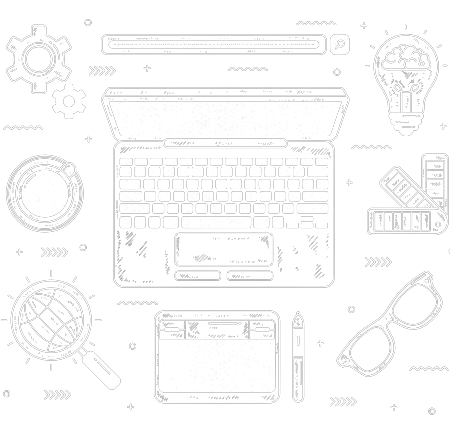
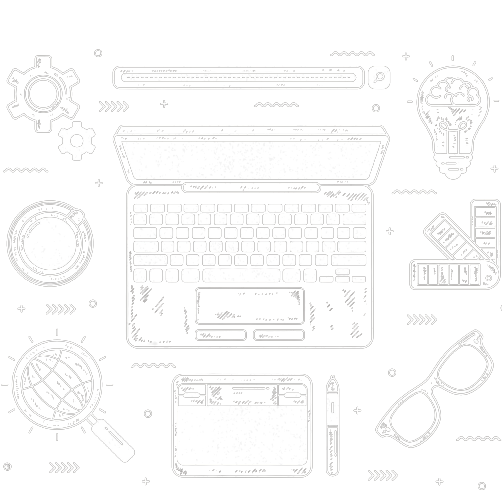
Changed background color

diff --git a/src/scenes/Landing.jsx b/src/scenes/Landing.jsx
@@ -4,8 +4,8 @@ import img1 from "./../assets/images/laptop.png";
 export default function Landing() {
   return (
     <section id="home">
-      <div class="grid w-4/5 py-8 mx-auto lg:gap-8 sm:gap-4 lg:py-20 sm:grid-cols-2 lg:grid-cols-12 mb-7">
-        <div class="mr-auto place-self-center lg:col-span-7">
+      <div class="grid md:w-4/5 sm:w-2/3 py-8 mx-auto lg:gap-8 sm:gap-4 lg:py-20 md:grid-cols-2 lg:grid-cols-12 mb-7">
+        <div class="mr-auto md:text-start lg:text-start lg:col-span-7">
           <motion.div
             initial="hidden"
             whileInView="visible"
@@ -16,133 +16,135 @@ export default function Landing() {
               visible: { opacity: 1, x: 0 },
             }}
           >
-            <h1 class="max-w-2xl mb-4 text-4xl font-teko font-extrabold tracking-tight leading-none md:text-6xl xl:text-7xl text-white">
+            <h1 class="max-w-2xl xxs:mt-3 xs:mt-8 xxs:text-5xl xs:text-5xl mb-4 text-4xl font-teko font-extrabold tracking-tight leading-none md:text-6xl xl:text-7xl text-white">
               I am ANDREA S. <span className="text-blue-300">PENSIERI.</span>
             </h1>
-            <p class="max-w-2xl mb-6 font-light font-sans lg:mb-6 md:text-lg lg:text-3xl text-gray-400">
+            <p class="max-w-2xl mb-6 font-light xs:text-3xl font-sans lg:mb-6 xxs:text-2xl md:text-lg lg:text-3xl text-gray-400">
               A Front End Developer based in Italy. I can code, design and
               prototype beautiful and responsive web applications!
             </p>
-            <a href="https://www.facebook.com/andrew.onais.9/?paipv=0&eav=Afa5uhlGs_onh2HMqBdvsaEiFm8mMpnhcXeALi7FbXXEzvqkhVzfxGC_-cvJZ5TcBPM&_rdr">
-              <svg
-                className="inline-flex mr-3 items-start justify-start"
-                xmlns="http://www.w3.org/2000/svg"
-                viewBox="0,0,256,256"
-                width="30px"
-                height="30px"
-                fill-rule="nonzero"
-              >
-                <g
-                  fill="#ffffff"
+            <div className="">
+              <a href="https://www.facebook.com/andrew.onais.9/?paipv=0&eav=Afa5uhlGs_onh2HMqBdvsaEiFm8mMpnhcXeALi7FbXXEzvqkhVzfxGC_-cvJZ5TcBPM&_rdr">
+                <svg
+                  className="inline-flex mr-3 items-start justify-start"
+                  xmlns="http://www.w3.org/2000/svg"
+                  viewBox="0,0,256,256"
+                  width="30px"
+                  height="30px"
                   fill-rule="nonzero"
-                  stroke="none"
-                  stroke-width="1"
-                  stroke-linecap="butt"
-                  stroke-linejoin="miter"
-                  stroke-miterlimit="10"
-                  stroke-dasharray=""
-                  stroke-dashoffset="0"
-                  font-family="none"
-                  font-weight="none"
-                  font-size="none"
-                  text-anchor="none"
                 >
-                  <g transform="scale(5.12,5.12)">
-                    <path d="M25,3c-12.15,0 -22,9.85 -22,22c0,11.03 8.125,20.137 18.712,21.728v-15.897h-5.443v-5.783h5.443v-3.848c0,-6.371 3.104,-9.168 8.399,-9.168c2.536,0 3.877,0.188 4.512,0.274v5.048h-3.612c-2.248,0 -3.033,2.131 -3.033,4.533v3.161h6.588l-0.894,5.783h-5.694v15.944c10.738,-1.457 19.022,-10.638 19.022,-21.775c0,-12.15 -9.85,-22 -22,-22z"></path>
+                  <g
+                    fill="#ffffff"
+                    fill-rule="nonzero"
+                    stroke="none"
+                    stroke-width="1"
+                    stroke-linecap="butt"
+                    stroke-linejoin="miter"
+                    stroke-miterlimit="10"
+                    stroke-dasharray=""
+                    stroke-dashoffset="0"
+                    font-family="none"
+                    font-weight="none"
+                    font-size="none"
+                    text-anchor="none"
+                  >
+                    <g transform="scale(5.12,5.12)">
+                      <path d="M25,3c-12.15,0 -22,9.85 -22,22c0,11.03 8.125,20.137 18.712,21.728v-15.897h-5.443v-5.783h5.443v-3.848c0,-6.371 3.104,-9.168 8.399,-9.168c2.536,0 3.877,0.188 4.512,0.274v5.048h-3.612c-2.248,0 -3.033,2.131 -3.033,4.533v3.161h6.588l-0.894,5.783h-5.694v15.944c10.738,-1.457 19.022,-10.638 19.022,-21.775c0,-12.15 -9.85,-22 -22,-22z"></path>
+                    </g>
                   </g>
-                </g>
-              </svg>
-            </a>
-            <a href="https://www.instagram.com/andy_s.thought/">
-              <svg
-                className="inline-flex mr-3 items-start justify-start"
-                xmlns="http://www.w3.org/2000/svg"
-                viewBox="0,0,256,256"
-                width="30px"
-                height="30px"
-                fill-rule="nonzero"
-              >
-                <g
-                  fill="#ffffff"
+                </svg>
+              </a>
+              <a href="https://www.instagram.com/andy_s.thought/">
+                <svg
+                  className="inline-flex mr-3 items-start justify-start"
+                  xmlns="http://www.w3.org/2000/svg"
+                  viewBox="0,0,256,256"
+                  width="30px"
+                  height="30px"
                   fill-rule="nonzero"
-                  stroke="none"
-                  stroke-width="1"
-                  stroke-linecap="butt"
-                  stroke-linejoin="miter"
-                  stroke-miterlimit="10"
-                  stroke-dasharray=""
-                  stroke-dashoffset="0"
-                  font-family="none"
-                  font-weight="none"
-                  font-size="none"
-                  text-anchor="none"
                 >
-                  <g transform="scale(5.12,5.12)">
-                    <path d="M16,3c-7.17,0 -13,5.83 -13,13v18c0,7.17 5.83,13 13,13h18c7.17,0 13,-5.83 13,-13v-18c0,-7.17 -5.83,-13 -13,-13zM37,11c1.1,0 2,0.9 2,2c0,1.1 -0.9,2 -2,2c-1.1,0 -2,-0.9 -2,-2c0,-1.1 0.9,-2 2,-2zM25,14c6.07,0 11,4.93 11,11c0,6.07 -4.93,11 -11,11c-6.07,0 -11,-4.93 -11,-11c0,-6.07 4.93,-11 11,-11zM25,16c-4.96,0 -9,4.04 -9,9c0,4.96 4.04,9 9,9c4.96,0 9,-4.04 9,-9c0,-4.96 -4.04,-9 -9,-9z"></path>
+                  <g
+                    fill="#ffffff"
+                    fill-rule="nonzero"
+                    stroke="none"
+                    stroke-width="1"
+                    stroke-linecap="butt"
+                    stroke-linejoin="miter"
+                    stroke-miterlimit="10"
+                    stroke-dasharray=""
+                    stroke-dashoffset="0"
+                    font-family="none"
+                    font-weight="none"
+                    font-size="none"
+                    text-anchor="none"
+                  >
+                    <g transform="scale(5.12,5.12)">
+                      <path d="M16,3c-7.17,0 -13,5.83 -13,13v18c0,7.17 5.83,13 13,13h18c7.17,0 13,-5.83 13,-13v-18c0,-7.17 -5.83,-13 -13,-13zM37,11c1.1,0 2,0.9 2,2c0,1.1 -0.9,2 -2,2c-1.1,0 -2,-0.9 -2,-2c0,-1.1 0.9,-2 2,-2zM25,14c6.07,0 11,4.93 11,11c0,6.07 -4.93,11 -11,11c-6.07,0 -11,-4.93 -11,-11c0,-6.07 4.93,-11 11,-11zM25,16c-4.96,0 -9,4.04 -9,9c0,4.96 4.04,9 9,9c4.96,0 9,-4.04 9,-9c0,-4.96 -4.04,-9 -9,-9z"></path>
+                    </g>
                   </g>
-                </g>
-              </svg>
-            </a>
-            <a href="https://github.com/andreasiano?tab=repositories">
-              <svg
-                className="inline-flex mr-3 items-start justify-start"
-                viewBox="0,0,256,256"
-                width="30px"
-                height="30px"
-                fill-rule="nonzero"
-              >
-                <g
-                  fill="#ffffff"
+                </svg>
+              </a>
+              <a href="https://github.com/andreasiano?tab=repositories">
+                <svg
+                  className="inline-flex mr-3 items-start justify-start"
+                  viewBox="0,0,256,256"
+                  width="30px"
+                  height="30px"
                   fill-rule="nonzero"
-                  stroke="none"
-                  stroke-width="1"
-                  stroke-linecap="butt"
-                  stroke-linejoin="miter"
-                  stroke-miterlimit="10"
-                  stroke-dasharray=""
-                  stroke-dashoffset="0"
-                  font-family="none"
-                  font-weight="none"
-                  font-size="none"
-                  text-anchor="none"
                 >
-                  <g transform="scale(5.12,5.12)">
-                    <path d="M17.791,46.836c0.711,-0.306 1.209,-1.013 1.209,-1.836v-5.4c0,-0.197 0.016,-0.402 0.041,-0.61c-0.014,0.004 -0.027,0.007 -0.041,0.01c0,0 -3,0 -3.6,0c-1.5,0 -2.8,-0.6 -3.4,-1.8c-0.7,-1.3 -1,-3.5 -2.8,-4.7c-0.3,-0.2 -0.1,-0.5 0.5,-0.5c0.6,0.1 1.9,0.9 2.7,2c0.9,1.1 1.8,2 3.4,2c2.487,0 3.82,-0.125 4.622,-0.555c0.934,-1.389 2.227,-2.445 3.578,-2.445v-0.025c-5.668,-0.182 -9.289,-2.066 -10.975,-4.975c-3.665,0.042 -6.856,0.405 -8.677,0.707c-0.058,-0.327 -0.108,-0.656 -0.151,-0.987c1.797,-0.296 4.843,-0.647 8.345,-0.714c-0.112,-0.276 -0.209,-0.559 -0.291,-0.849c-3.511,-0.178 -6.541,-0.039 -8.187,0.097c-0.02,-0.332 -0.047,-0.663 -0.051,-0.999c1.649,-0.135 4.597,-0.27 8.018,-0.111c-0.079,-0.5 -0.13,-1.011 -0.13,-1.543c0,-1.7 0.6,-3.5 1.7,-5c-0.5,-1.7 -1.2,-5.3 0.2,-6.6c2.7,0 4.6,1.3 5.5,2.1c1.699,-0.701 3.599,-1.101 5.699,-1.101c2.1,0 4,0.4 5.6,1.1c0.9,-0.8 2.8,-2.1 5.5,-2.1c1.5,1.4 0.7,5 0.2,6.6c1.1,1.5 1.7,3.2 1.6,5c0,0.484 -0.045,0.951 -0.11,1.409c3.499,-0.172 6.527,-0.034 8.204,0.102c-0.002,0.337 -0.033,0.666 -0.051,0.999c-1.671,-0.138 -4.775,-0.28 -8.359,-0.089c-0.089,0.336 -0.197,0.663 -0.325,0.98c3.546,0.046 6.665,0.389 8.548,0.689c-0.043,0.332 -0.093,0.661 -0.151,0.987c-1.912,-0.306 -5.171,-0.664 -8.879,-0.682c-1.665,2.878 -5.22,4.755 -10.777,4.974v0.031c2.6,0 5,3.9 5,6.6v5.4c0,0.823 0.498,1.53 1.209,1.836c9.161,-3.032 15.791,-11.672 15.791,-21.836c0,-12.682 -10.317,-23 -23,-23c-12.683,0 -23,10.318 -23,23c0,10.164 6.63,18.804 15.791,21.836z"></path>
+                  <g
+                    fill="#ffffff"
+                    fill-rule="nonzero"
+                    stroke="none"
+                    stroke-width="1"
+                    stroke-linecap="butt"
+                    stroke-linejoin="miter"
+                    stroke-miterlimit="10"
+                    stroke-dasharray=""
+                    stroke-dashoffset="0"
+                    font-family="none"
+                    font-weight="none"
+                    font-size="none"
+                    text-anchor="none"
+                  >
+                    <g transform="scale(5.12,5.12)">
+                      <path d="M17.791,46.836c0.711,-0.306 1.209,-1.013 1.209,-1.836v-5.4c0,-0.197 0.016,-0.402 0.041,-0.61c-0.014,0.004 -0.027,0.007 -0.041,0.01c0,0 -3,0 -3.6,0c-1.5,0 -2.8,-0.6 -3.4,-1.8c-0.7,-1.3 -1,-3.5 -2.8,-4.7c-0.3,-0.2 -0.1,-0.5 0.5,-0.5c0.6,0.1 1.9,0.9 2.7,2c0.9,1.1 1.8,2 3.4,2c2.487,0 3.82,-0.125 4.622,-0.555c0.934,-1.389 2.227,-2.445 3.578,-2.445v-0.025c-5.668,-0.182 -9.289,-2.066 -10.975,-4.975c-3.665,0.042 -6.856,0.405 -8.677,0.707c-0.058,-0.327 -0.108,-0.656 -0.151,-0.987c1.797,-0.296 4.843,-0.647 8.345,-0.714c-0.112,-0.276 -0.209,-0.559 -0.291,-0.849c-3.511,-0.178 -6.541,-0.039 -8.187,0.097c-0.02,-0.332 -0.047,-0.663 -0.051,-0.999c1.649,-0.135 4.597,-0.27 8.018,-0.111c-0.079,-0.5 -0.13,-1.011 -0.13,-1.543c0,-1.7 0.6,-3.5 1.7,-5c-0.5,-1.7 -1.2,-5.3 0.2,-6.6c2.7,0 4.6,1.3 5.5,2.1c1.699,-0.701 3.599,-1.101 5.699,-1.101c2.1,0 4,0.4 5.6,1.1c0.9,-0.8 2.8,-2.1 5.5,-2.1c1.5,1.4 0.7,5 0.2,6.6c1.1,1.5 1.7,3.2 1.6,5c0,0.484 -0.045,0.951 -0.11,1.409c3.499,-0.172 6.527,-0.034 8.204,0.102c-0.002,0.337 -0.033,0.666 -0.051,0.999c-1.671,-0.138 -4.775,-0.28 -8.359,-0.089c-0.089,0.336 -0.197,0.663 -0.325,0.98c3.546,0.046 6.665,0.389 8.548,0.689c-0.043,0.332 -0.093,0.661 -0.151,0.987c-1.912,-0.306 -5.171,-0.664 -8.879,-0.682c-1.665,2.878 -5.22,4.755 -10.777,4.974v0.031c2.6,0 5,3.9 5,6.6v5.4c0,0.823 0.498,1.53 1.209,1.836c9.161,-3.032 15.791,-11.672 15.791,-21.836c0,-12.682 -10.317,-23 -23,-23c-12.683,0 -23,10.318 -23,23c0,10.164 6.63,18.804 15.791,21.836z"></path>
+                    </g>
                   </g>
-                </g>
-              </svg>
-            </a>
-            <a href="https://github.com/andreasiano?tab=repositories">
-              <svg
-                className="inline-flex mr-3 items-start justify-start"
-                viewBox="0,0,256,256"
-                width="33px"
-                height="33px"
-              >
-                <g
-                  fill="#ffffff"
-                  fill-rule="nonzero"
-                  stroke="none"
-                  stroke-width="1"
-                  stroke-linecap="butt"
-                  stroke-linejoin="miter"
-                  stroke-miterlimit="10"
-                  stroke-dasharray=""
-                  stroke-dashoffset="0"
-                  font-family="none"
-                  font-weight="none"
-                  font-size="none"
-                  text-anchor="none"
+                </svg>
+              </a>
+              <a href="https://www.linkedin.com/in/andrea-siano-023a46243/">
+                <svg
+                  className="inline-flex mr-3 items-start justify-start"
+                  viewBox="0,0,256,256"
+                  width="33px"
+                  height="33px"
                 >
-                  <g transform="scale(4,4)">
-                    <path d="M48,8h-32c-4.418,0 -8,3.582 -8,8v32c0,4.418 3.582,8 8,8h32c4.418,0 8,-3.582 8,-8v-32c0,-4.418 -3.582,-8 -8,-8zM24,47h-5v-20h5zM24.029,23.009c-0.647,0.66 -1.491,0.991 -2.529,0.991c-1.026,0 -1.865,-0.341 -2.519,-1.023c-0.654,-0.682 -0.981,-1.519 -0.981,-2.509c0,-1.02 0.327,-1.852 0.981,-2.498c0.654,-0.647 1.493,-0.97 2.519,-0.97c1.038,0 1.882,0.323 2.529,0.969c0.647,0.646 0.971,1.479 0.971,2.499c0,1.034 -0.324,1.881 -0.971,2.541zM47,47h-5v-11.113c0,-3.099 -1.786,-4.887 -4,-4.887c-1.067,0 -2.274,0.648 -2.965,1.469c-0.691,0.821 -1.035,1.862 -1.035,3.125v11.406h-5v-20h5v3.164h0.078c1.472,-2.435 3.613,-3.644 6.426,-3.652c3.996,-0.012 6.496,2.988 6.496,8.242z"></path>
+                  <g
+                    fill="#ffffff"
+                    fill-rule="nonzero"
+                    stroke="none"
+                    stroke-width="1"
+                    stroke-linecap="butt"
+                    stroke-linejoin="miter"
+                    stroke-miterlimit="10"
+                    stroke-dasharray=""
+                    stroke-dashoffset="0"
+                    font-family="none"
+                    font-weight="none"
+                    font-size="none"
+                    text-anchor="none"
+                  >
+                    <g transform="scale(4,4)">
+                      <path d="M48,8h-32c-4.418,0 -8,3.582 -8,8v32c0,4.418 3.582,8 8,8h32c4.418,0 8,-3.582 8,-8v-32c0,-4.418 -3.582,-8 -8,-8zM24,47h-5v-20h5zM24.029,23.009c-0.647,0.66 -1.491,0.991 -2.529,0.991c-1.026,0 -1.865,-0.341 -2.519,-1.023c-0.654,-0.682 -0.981,-1.519 -0.981,-2.509c0,-1.02 0.327,-1.852 0.981,-2.498c0.654,-0.647 1.493,-0.97 2.519,-0.97c1.038,0 1.882,0.323 2.529,0.969c0.647,0.646 0.971,1.479 0.971,2.499c0,1.034 -0.324,1.881 -0.971,2.541zM47,47h-5v-11.113c0,-3.099 -1.786,-4.887 -4,-4.887c-1.067,0 -2.274,0.648 -2.965,1.469c-0.691,0.821 -1.035,1.862 -1.035,3.125v11.406h-5v-20h5v3.164h0.078c1.472,-2.435 3.613,-3.644 6.426,-3.652c3.996,-0.012 6.496,2.988 6.496,8.242z"></path>
+                    </g>
                   </g>
-                </g>
-              </svg>
-            </a>
+                </svg>
+              </a>
+            </div>
           </motion.div>
         </div>
-        <div class="mt-6 lg:col-span-5 lg:flex">
+        <div class="xxs:mt-6 md:mt-0 lg:col-span-5 lg:flex">
           <img className="rounded-xl" src={img1} alt="mockup" />
         </div>
       </div>

diff --git a/src/index.css b/src/index.css
@@ -8,7 +8,7 @@ html,
 body,
 #root,
 .app {
-    background-color: rgb(130, 179, 222); 
+    background-color: rgb(52, 50, 63); 
     font-family: 'Open Sans', sans-serif
 } 
 
@@ -20,18 +20,5 @@ html {
 @media screen and (max-width: 500px) {
     html {
         zoom: 100%;
-    }
-}
-
-.outer-container {
-    margin: 24px;
-    border: 5px solid rgb(255, 255, 255);
-    overflow: hidden;
-    background-color: rgb(33, 33, 37);
-}
-
-@media screen and (max-width: 500px) {
-    .outer-container {
-        margin: 5px;
     }
 }

diff --git a/src/scenes/Navbar.jsx b/src/scenes/Navbar.jsx
@@ -8,7 +8,7 @@ const Navbar = () => {
   const isDesktop = useMediaQuery("(min-width: 768px)");
 
   return (
-    <nav className="z-40 sticky font-teko top-0 w-full py-6 text-slate-200">
+    <nav className="z-40 font-teko top-0 w-full py-6 text-slate-200">
       <div className="flex items-center justify-between mx-auto w-4/5">
         <h4 className="xxs:text-lg font-semibold xs:text-xl lg:text-2xl">
           <a href="">ANDREA PENSIERI</a>

diff --git a/tailwind.config.js b/tailwind.config.js
@@ -14,10 +14,10 @@ module.exports = {
     },
     screens: {
       xxs: "200px",
-      xs: "480px",
+      xs: "400px",
       ss: "620px",
       sm: "768px",
-      md: "1060px",
+      md: "1024px",
       lg: "1200px",
       xl: "1700px",
     },

diff --git a/src/App.js b/src/App.js
@@ -7,7 +7,7 @@ import Map from "./scenes/Map";
 
 function App() {
   return (
-    <div className="app outer-container rounded-md">
+    <div>
       <Navbar />
       <Landing />
       <Projects />
